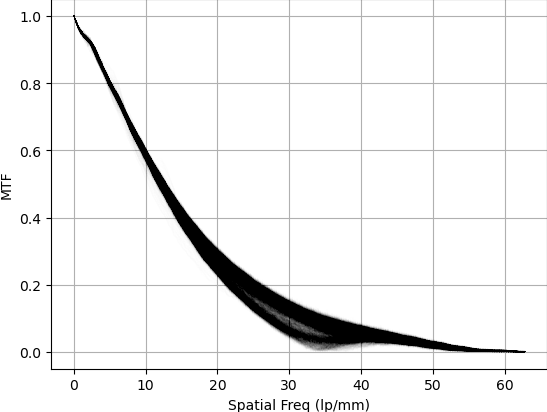
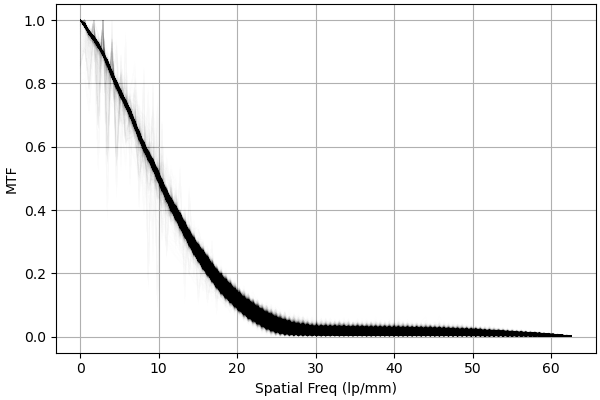
posts/scanner-mtf: add new data

Changed region(s): [[0.0311, 0.0, 1.0, 1.0], [0.0, 0.42, 0.0311, 0.51]]

diff --git a/posts/scanner-mtf/index.html b/posts/scanner-mtf/index.html
@@ -15,41 +15,41 @@
 	<h3> Background </h3>
 
 <p> I have an Epson V550 perfection for scanning film which is <i>barely</i> adequate. It's just not
-sharp, noisy, and doesn't offer me the control I want. So I thought it would be fun to measure its
-modulation transfer function (MTF) and point spread function (PSF). If you're unfamiliar with what
-those are and how they're related, LenRentals has a <a
+sharp, it's noisy (sensor-wise), and it doesn't offer me the control I want. I thought it would be
+fun to measure its modulation transfer function (MTF) and point spread function (PSF) to determine
+just how soft it is. If you're unfamiliar with what those are and how they're related, LenRentals
+has a <a
 href="https://www.lensrentals.com/blog/2017/10/the-8k-conundrum-when-bad-lenses-mount-good-sensors/">
-great explanation</a> with real world lens examples. If you find it interesting, I highly recommend
-checking out the rest of their blog too. </p>
+great explanation</a> with real world lens examples. If you find that interesting, I highly
+recommend checking out the rest of their blog too. </p>
 
 	<h3> Knife Edge MTF Measurement </h3>
 
-<p> As mentioned in the LensRentals blog post, the MTF curve is just the Fourier transform of the
-PSF. I'll be measuring the PSF and using it to calculate the MTF curve. You can also use the PSF to
-model what image the scanner would produce, given a known, ideal input:
+<p> As mentioned in the LensRentals blog post, the MTF is just the Fourier transform of the PSF.
+I'll be measuring the PSF and using it to calculate the MTF. You can also use the PSF to model what
+image the scanner would produce, given a known, ideal input:
 
 <blockquote>
 	OUTPUT(x) = INPUT(x) &lowast; PSF(x) <br>
-	<i>&emsp;Note: &lowast; is convolution</i>
+	<i>&emsp;Note: &lowast; is <a href="https://betterexplained.com/articles/intuitive-convolution/">convolution</a></i>
 </blockquote>
 
-Convolving your input with the PSF gives you your output. This also means if we know the input and
-output we can calculate the PSF. </p>
+Convolving your input with the PSF gives you your output. If we know the input and output we can
+calculate the PSF. </p>
 
-<p> Ideally, the input would be an ideal point source which is expressed mathematically as the <a
+<p> Ideally, the input would be a perfect point source which is expressed as the <a
 href="https://en.wikipedia.org/wiki/Dirac_delta_function">dirac delta function &delta;(x)</a>.
-Convolving a function with &delta;(x) yields the same function (i.e. it is the identity transform),
-so if the input is &delta;(x) then the output would be the PSF. Unfortunately, real world ideal
-point sources are hard to come by. I could use a pinhole, but I'd need a way of measuring it's
-diameter which is also hard. In order to calculate the PSF I need a known input and in two
-dimensions that's just too hard. </a>
+Convolving a function with &delta;(x) yields the same function (i.e. &delta;(x) &lowast; f(x) =
+f(x)), so if INPUT(x) is a perfect point source &delta;(x) then the output would be the PSF.
+Unfortunately, real world ideal point sources are hard to come by. I could use a pinhole, but I'd
+need a way of measuring it's diameter which is also hard.</p>
 
-<p> So instead I'll just measure it in one dimension at a time. I still don't have an ideal point
-source, but you can get an ideal <a href="https://en.wikipedia.org/wiki/Heaviside_step_function">
-step function</a>: a razorblade edge. The step function also has a handy property: it's derivative
-is &delta;(x). Combining that knowledge with the <a
-href="https://en.wikipedia.org/wiki/Convolution#Differentiation"> derivative of two convolved
-functions</a> we can derive the PSF from just the scanned image of a razorblade edge:
+<p> Instead I'll measure the PSF in one dimension at a time. I still don't have an ideal one
+dimensional point source, but you can get an ideal <a
+href="https://en.wikipedia.org/wiki/Heaviside_step_function"> step function</a>: a razorblade edge.
+The step function also has a handy property: it's derivative is &delta;(x). Combining that knowledge
+with the <a href="https://en.wikipedia.org/wiki/Convolution#Differentiation"> derivative of two
+convolved functions</a> we can derive the PSF from just the scanned image of a razorblade edge:
 
 <blockquote>
 
@@ -94,34 +94,46 @@ I've written a <a href="https://gist.github.com/ajeddeloh/07073bae201f0024e44295
 script</a> to load an image of just the edge, calculate the MTF curves for every row/column, and
 plot them all. It's what I used to generate the graphs below.
 
-	<h3> Are the horizontal and vertical resolution the same? </h3>
+	<h3> Are the horizontal and vertical resolution the same? </h3> 
 
-The razor blade would not fit in the Epson film holders, so I used a slide frame. There is a slight
-difference in the height (1.0mm for the Epson, 0.9mm for the frame) but that turns out to not make
-much difference. More on that later.
+<b> Update 12/20: </b> <i> I ran the horizontal test again and got different results. I think the
+originally published results were taken with a gamma curve applied. This post has been edited to
+reflect the new data. </i>
+
+<p> The razor blade would not fit in the Epson film holders, so I used a slide frame. There is a
+slight difference in the height (1.0mm for the Epson, 0.9mm for the frame) but that turns out to not
+make much difference. More on that later. </p>
 
 <center>Vertical edge, in slide frame, 0.9mm above glass</center>
 <img src=./vertical_framed.png>
 
-The graph is "fuzzy" because I graphed the MTF for all rows of pixels crossing over the razor blade
-edge. Any dust, noise, etc can cause the fuzziness. 
+<p> The graph is fuzzy because I plotted the MTF for all rows of pixels crossing over the razor
+blade edge on the same graph. Any dust, noise, or nicks in the razor blade can cause fuzziness. </p>
 
 <center>Horizontal edge, in slide frame, 0.9mm above glass</center>
 <img src=./horizontal_framed.png>
 
-Looking at the two graphs, there doesn't seem to be much difference in either direction, so from now
-on I'll just be running tests in the vertical direction.
+Looking at the two graphs, the scanner is sharper measuring a vertical edge. This means scans of
+landscape photos will be sharper vertically than horizontally. In practice, I don't notice this in
+actual scans of film, but if you were scanning film shot with an anamorphic lens, it might be a good
+idea to mount them in slide frames and rotate them. I wonder if this is in part due to the sensor
+bar moving and vibration causing blurriness.
 
 	<h3> How does this differ from others results </h3>
 
-<a href=https://www.filmscanner.info/en/EpsonPerfectionV600Photo.html>ScanDig</a> has also performed
-resolution tests on the V600 (which is nearly identical to the V550). They found the resolution to
-be different in the vertical and horizontal directions at about 25 lp/mm and 35 lp/mm (to convert
-from ppi to lp/mm divide by 50.8). This corresponds to about an MTF of 20% and 10% on my scans,
-which seems reasonable as a threshold for the smallest delta discernible. The discrepancy between
-their results and mine could be due to model-to-model variance. Since they are not measuring MTF and
-rely on human judgement our results are not directly comparable, but they appear to be in the same
-ballpark.
+<b> Update 12/20: </b> <i> This has been updated with the new data described above </i>
+
+<p> <a href=https://www.filmscanner.info/en/EpsonPerfectionV600Photo.html>ScanDig</a> has also
+performed resolution tests on the V600 (which is nearly identical to the V550). They also found the
+resolution to be different in the vertical and horizontal directions at about 25 lp/mm and 35 lp/mm
+(to convert from their PPI to lp/mm divide by 50.8). Their test methodology is different from mine.
+Instead of measuring the full MTF they determine the resolution they can no longer discern the
+difference between black and white bars in a test target. </p>
+
+<p> Their measurements correspond to an MTF of ~5% on both of my graphs. This seems reasonable as a
+threshold for the smallest discernible contrast. Since they are not measuring a full MTF curve and
+rely on human judgement to determine the resolution, our results are not directly comparable, but
+they are in the same ballpark. </p>
 
 	<h3> How much does height above the glass matter? </h3>
 
@@ -130,6 +142,7 @@ that custom film holders can solve this problem. I put the razor blade in at an 
 the edge of the slide holder so the height of the edge varied over distance. This allows me to see
 how the MTF changes with film height. </p>
 
+<center> Slanted test setup </center>
 <img src="./slant_setup.jpg">
 
 <p> Then I graphed the MTF at three spatial resolutions (10, 20 and 30 lp/mm) vs the y coordinate
@@ -138,6 +151,7 @@ resting on the edge of the slide holder (4.2mm tall). I kept it in because it le
 end of the graph was (nearly) against the glass (left) and which was significantly above it (right).
 </p>
 
+<center> MTF at 10, 20, and 30 lp/mm. Left side of graph is on glass </center>
 <img src="./slant.png">
 
 <p> Height above the glass clearly has an effect on MTF, but the best position is about the same as
@@ -145,7 +159,17 @@ the height the razor blade sits at in the slide holder. I don't think there's mu
 buying custom holders unless your film is curling/bowing up significantly. Then again, this could
 vary unit to unit.</p>
 
-	<h3> Does VueScan help? </h3>
+<b> Update 12/21: </b><i>This subsection was added</i>
+<br><br>
+
+<center> MTF at 10, 20, and 30 lp/mm. Right side of graph is on glass </center>
+<img src="./h_slant.png">
+
+<p> Testing with the razorblade running horizontally at a slant produced similar results; the area
+of best focus near but not on the glass. The MTF was lower across the board which also matches the
+MTF curve above where the horizontal edge is not as sharp as the vertical edge.</p>
+
+<h3> Does VueScan help? </h3>
 
 <p> In a word: No. </p>
 
